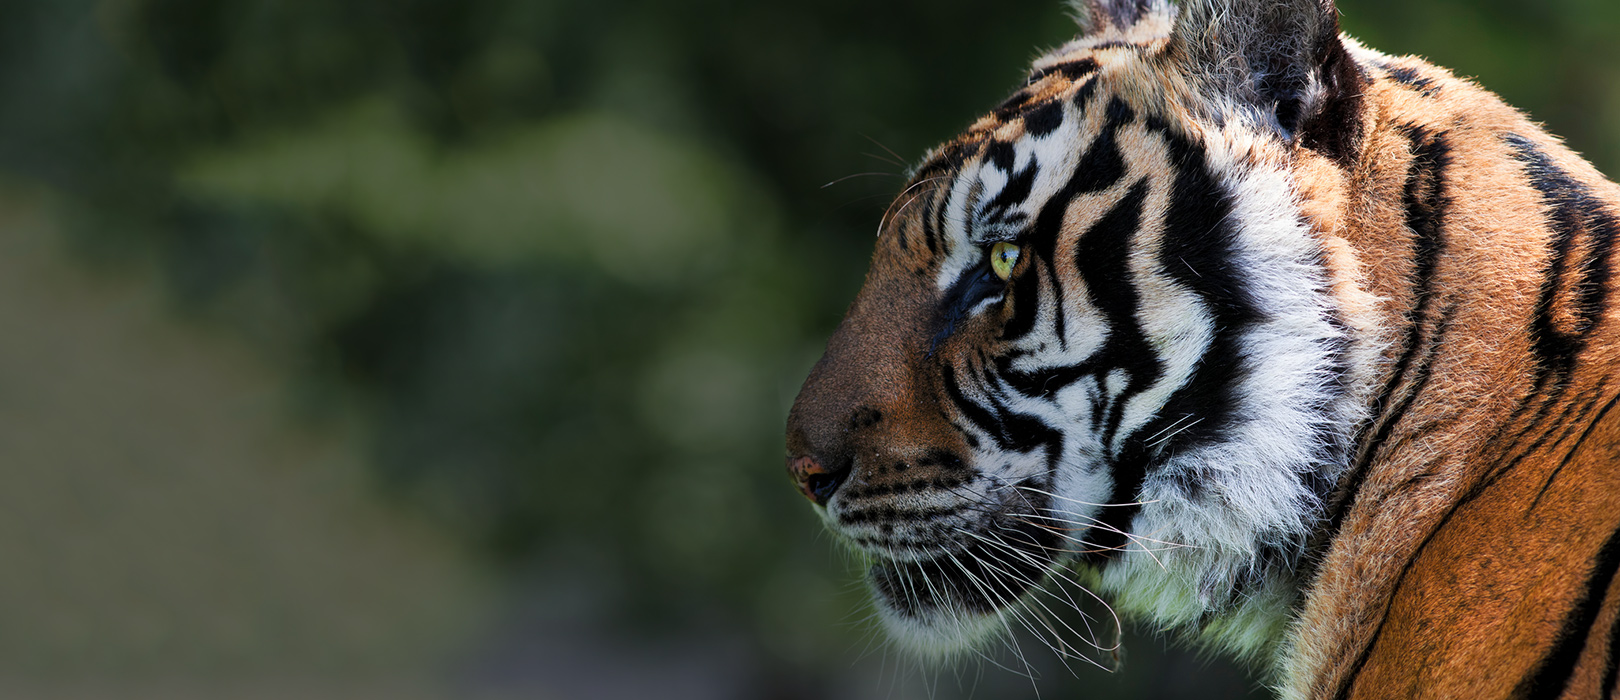
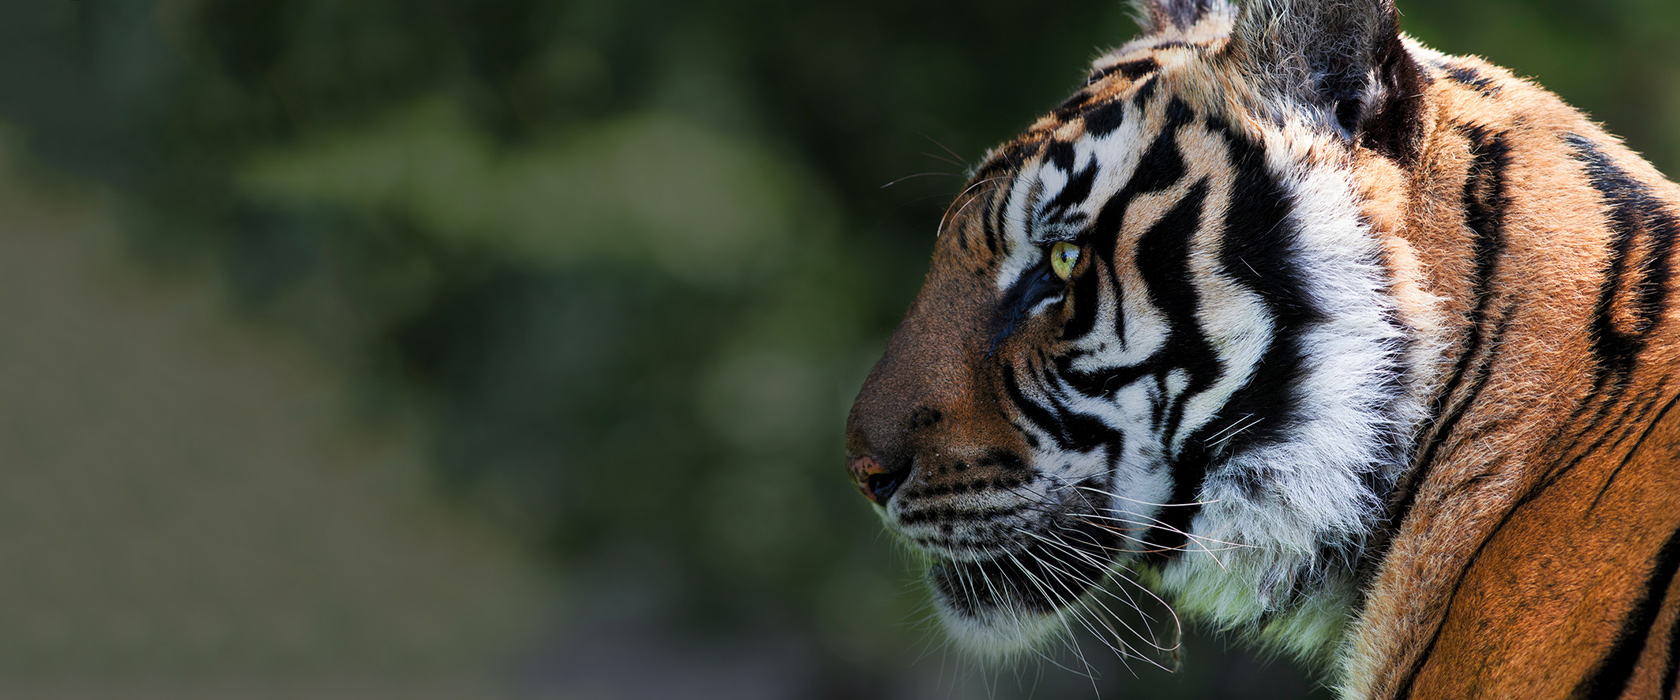
works better on 15" laptop now

diff --git a/source/assets/stylesheets/global/_scaffolding.scss b/source/assets/stylesheets/global/_scaffolding.scss
@@ -35,16 +35,11 @@ section {
 }
 
 .page-hero {
-  min-height: 400px;
+  min-height: 600px;
   position: relative;
   background-attachment: fixed;
   background-repeat: no-repeat;
   background-position: center top;
-
-  @include media(min-width 1441px) {
-    background-size: cover;
-    background-attachment: scroll;
-  }
 
   @include media($medium-down) {
     background-size: cover;

diff --git a/source/assets/stylesheets/_settings.scss b/source/assets/stylesheets/_settings.scss
@@ -40,7 +40,7 @@ $global-padding: 20px !default;
 $side-padding: 7% !default;
 $global-radius: 3px !default;
 
-$page-width: 1440px;
+$page-width: 1680px;
 
 @mixin align-vertically {
   @include media($medium-up) {
